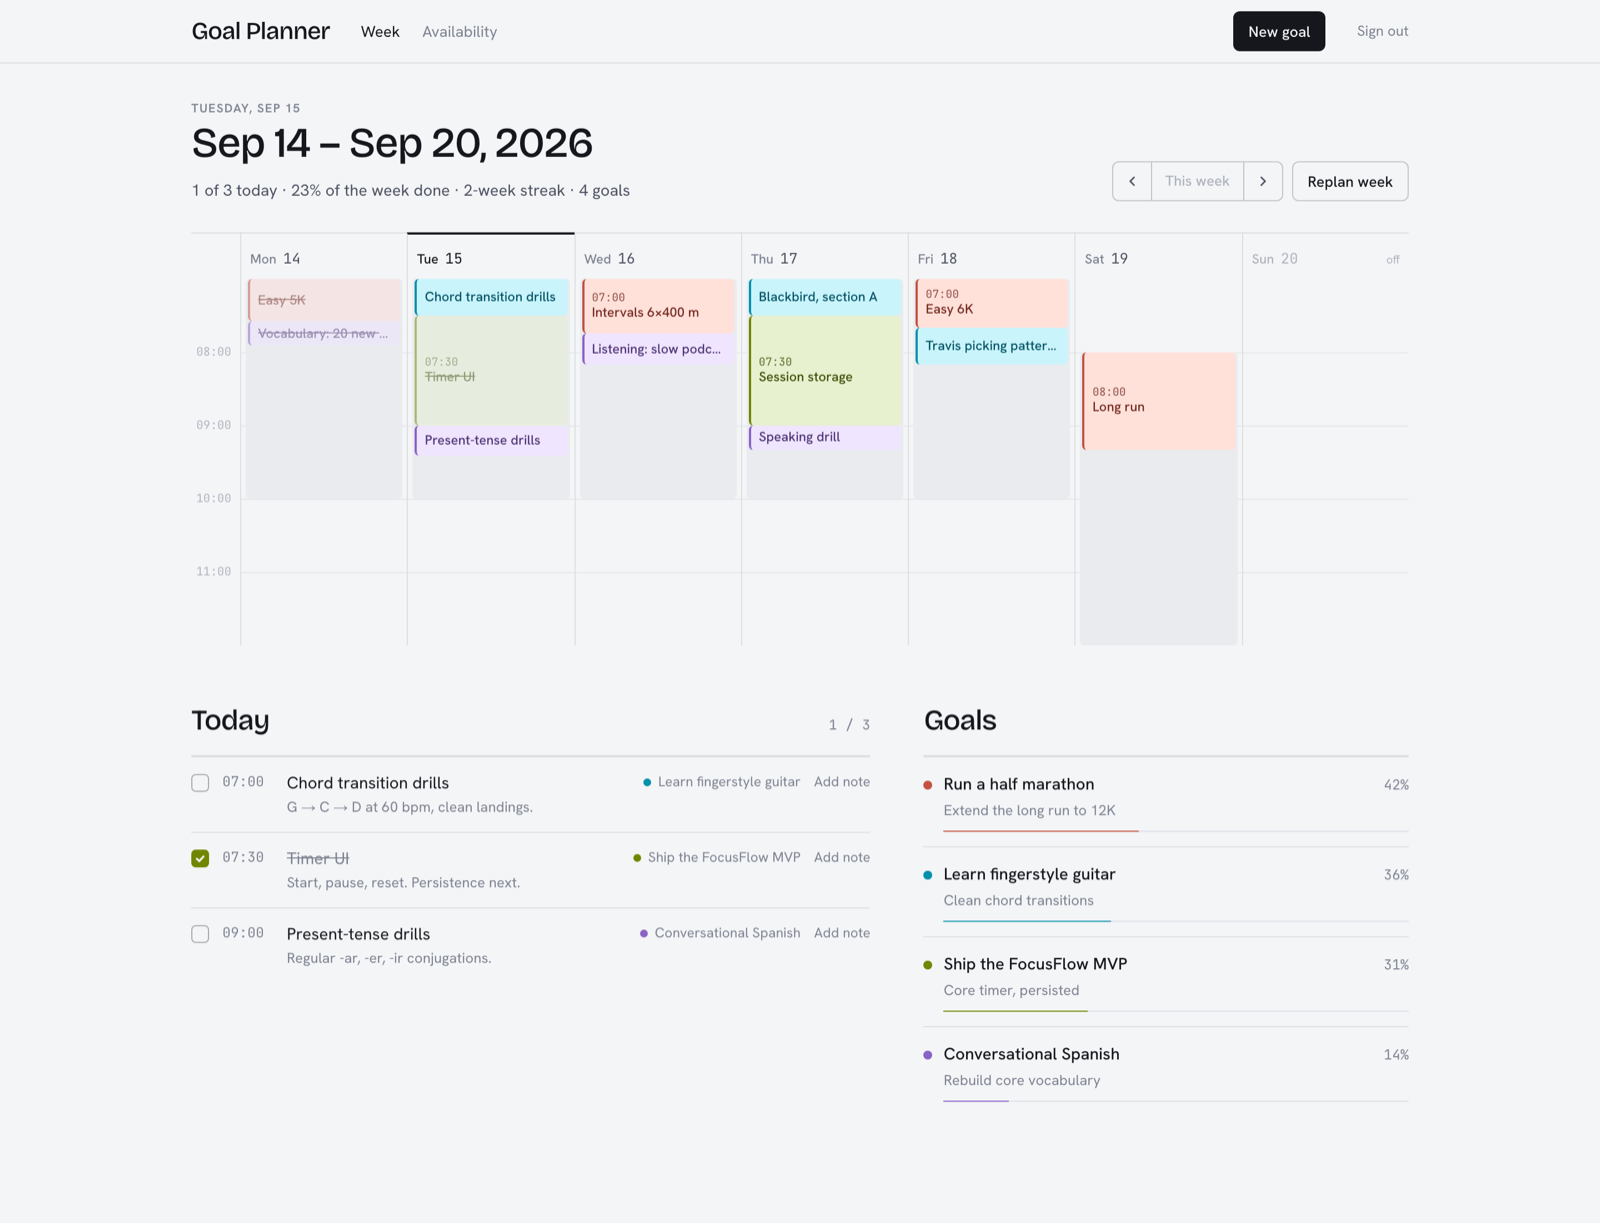
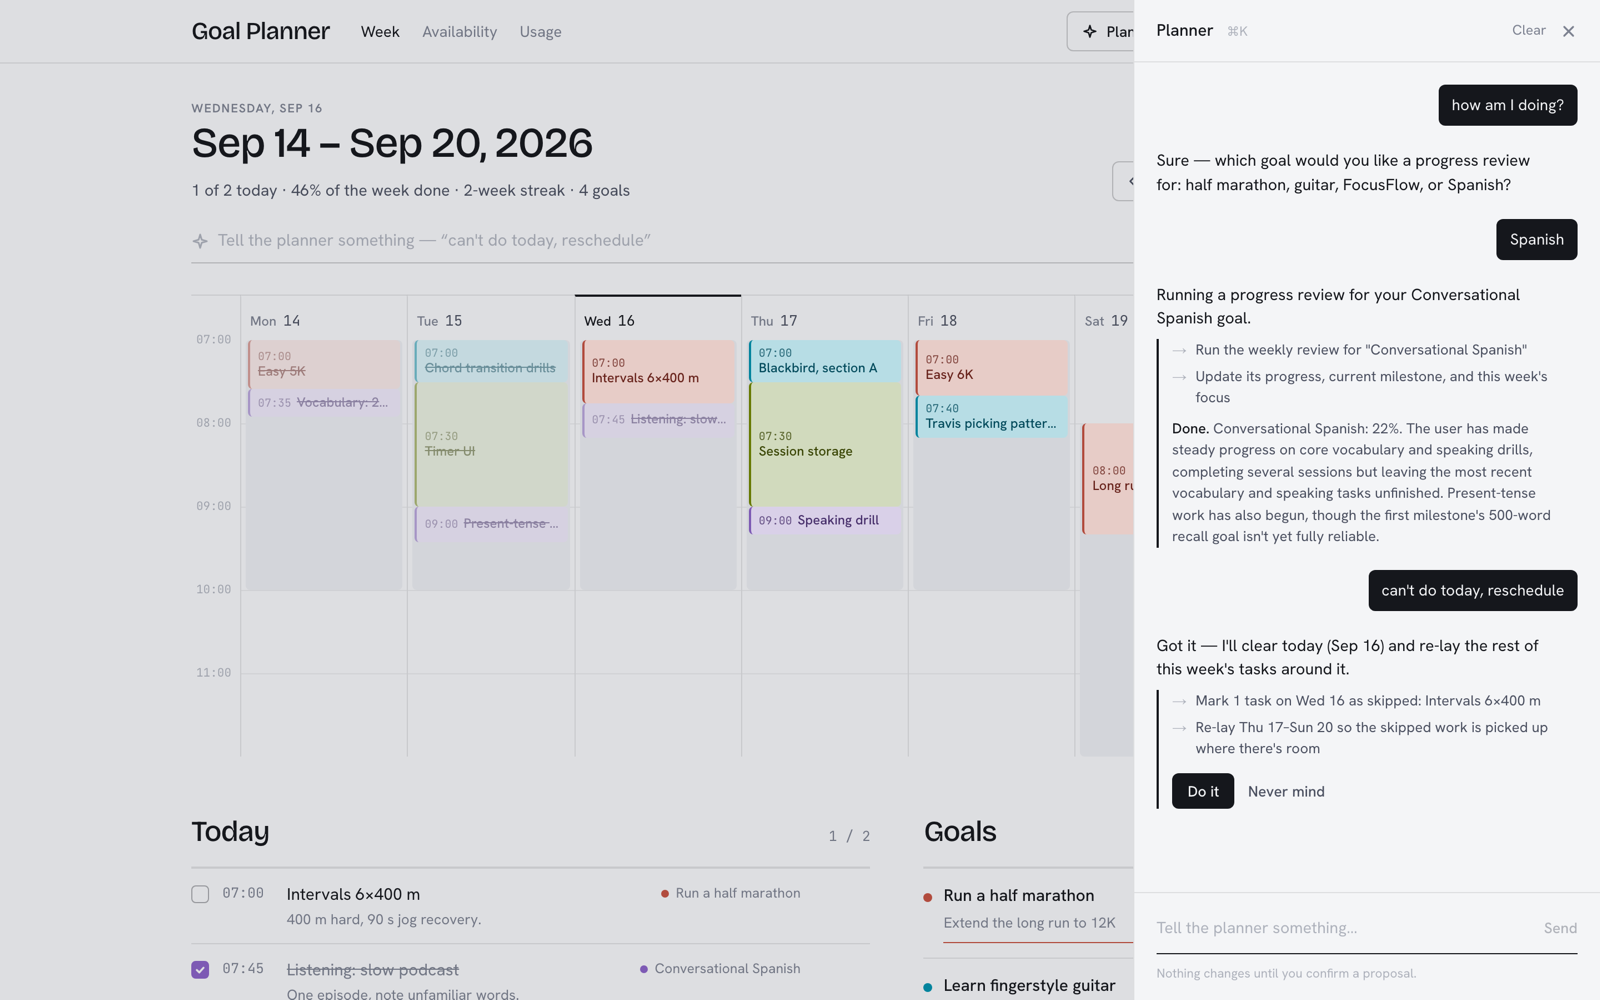
EEG project rewrite with EEG-trace graphic, Goal Planner dashboard update

diff --git a/web/content/projects.ts b/web/content/projects.ts
@@ -76,17 +76,20 @@ export const PROJECTS: Project[] = [
     name: "EEG Seizure Detection",
     designator: "M2",
     year: "2026",
-    role: "Solo · ML + deployment",
+    role: "ECE 539 team project · 2D CNN + evaluation",
     summary:
-      "Trained a seizure classifier on EEG recordings in PyTorch, then packaged it for deployment: a FastAPI inference endpoint, a Docker container, and documented setup.",
+      "Seizure detection from raw EEG with 1D and 2D CNNs. Every model hit 99.6% accuracy and caught zero seizures, so the project became a study of evaluating under severe imbalance: sensitivity over accuracy, leak-free recording-level splits, and a false-alarm budget.",
     body: [
-      "A seizure classifier trained on EEG recordings in PyTorch. The model is half the project; the other half is making it usable by someone who isn't me.",
-      "So it ships as a service: a FastAPI endpoint that takes a recording and returns a prediction, a Docker container so it runs the same on a laptop as on a server, and setup documentation that gets a new machine from clone to first inference without guesswork.",
+      "Seizure detection from raw 23-channel scalp EEG in the CHB-MIT database, for ECE 539 (Neural Networks) at UW–Madison. An end-to-end pipeline runs from EDF ingestion through annotation-based labels and feeds five models identical 4-second windows: three classical baselines, a 1D CNN on the raw signal, and a 2D CNN on STFT spectrograms.",
+      "Every model scored over 99.6% accuracy while catching zero seizures, because seizures make up under 5% of a recording. Sensitivity exposed the problem, and AUC showed the CNNs had actually learned to rank seizure windows above background. The failure was the decision threshold, not the model.",
+      "Revisiting the project later, I found two deeper problems. A labeling bug was under-counting seizure windows by about 10×. And the random window split let overlapping windows share signal across train and test, which inflated AUC to 0.98–0.999 and made every number from the original run untrustworthy.",
+      "I rebuilt the evaluation around recording-level splits, so no recording contributes to both sides, and thresholds chosen on validation data against a false-alarm budget rather than the default 0.5. That's the operating point a clinician would actually care about: how many seizures are caught at how many false alarms per hour.",
+      "My part: the 2D CNN and its spectrogram pipeline, the evaluation protocol, and the two bug fixes.",
     ],
-    tags: ["PyTorch", "FastAPI", "Docker", "Python"],
+    tags: ["Python", "PyTorch", "MNE", "scikit-learn", "STFT", "CHB-MIT"],
+    image: "/assets/eeg-seizure-traces.jpg",
     links: [
-      // { label: "Source", href: "https://github.com/hargens-holland/eeg-seizure" },
-      // { label: "API", href: "https://eeg-api.example.com" },
+      // { label: "Source", href: "https://github.com/hargens-holland/…" },
     ],
   },
   {
@@ -110,15 +113,20 @@ export const PROJECTS: Project[] = [
     name: "Goal Planner",
     designator: "M4",
     year: "2025",
-    role: "Solo · full-stack + AI agents",
+    role: "Solo · AI agents in production",
     summary:
-      "Type a goal in plain language and three Claude agents turn it into a milestone roadmap, then schedule the work into the hours you're actually free. Structured outputs, typed fallbacks, 71 tests, CI.",
+      "Three Claude agents turn a stated goal into a milestone roadmap and place the week's work into the hours you're actually free. Structured outputs, typed fallbacks, per-call telemetry, and an eval harness with an LLM judge that decides which model each agent runs on. 124 tests.",
     body: [
-      "An AI planning app: a plain-language goal becomes a milestone roadmap, and the roadmap becomes scheduled daily tasks. Three Claude agents each have one job. The Architect builds the roadmap. Progress reviews your week and adjusts where you are. The Scheduler lays tasks onto a real calendar, across every active goal, in the time you actually have.",
-      "The engineering focus was making model calls behave like any other dependency. Every agent call is constrained to a zod schema through structured outputs, so the app never parses free text. Each agent has a deterministic fallback with typed failure reasons, and every plan is logged as model- or fallback-generated, so the app keeps working when the model doesn't.",
-      "Retries are separated by cause: the SDK handles network retries, while schema violations and truncated responses are retried explicitly with their own logic. Contract tests verify that the schemas and the fallbacks satisfy the same contract, so a fallback can never quietly drift from what the model is supposed to return. 71 tests run in CI, and the architecture is fully documented in the repo.",
+      "Type a goal in plain language and three Claude agents each do one job. The Architect builds a milestone roadmap. Progress reviews your week and adjusts where you are. The Scheduler places tasks into your available hours across every active goal. Structured outputs constrain every model call to a Zod schema, every agent has a deterministic fallback with typed failure reasons, and every plan is recorded as model- or fallback-generated, so the app keeps working when the model doesn't.",
+      "I built the measurement layer before anything else. Every call writes one row: model, source, reason, attempts, tokens in and out, latency, estimated cost. It's fire-and-forget and swallows its own errors, so it can never affect the call it describes. A usage page aggregates thirty days: cost per day, p50 and p95 per agent, fallback rate, and why calls fell back. Without that, a fallback and a real model response produce identical-looking rows and you're blind.",
+      "An eval harness runs 24 goals across 13 domains, plus two injection cases and one deliberately vague goal, through the real Architect: nine deterministic checks scored separately, then an Opus judge grading four properties on a written 1–5 rubric with the candidate delimited as untrusted and the judge told not to reward length. Result: Opus 5 scores 4.67 against Sonnet 5's 4.27, a paired difference of +0.39 ± 0.17 over 22 goals, at 2.6× the cost and 1.7× the latency. That's why the Architect runs on Opus and the cheaper agents on Sonnet. The caveat is stated in the doc: the judge is Opus.",
+      "The tooling found six bugs none of the tests could see. The schema said a milestone's week was when it was targeted, so the model read it as due and the app read it as start, and every model-generated roadmap failed ordering. \"By end of year\" produced 24-week plans against a 16-week deadline because the model has no clock. A replan that returned generic titles turned out to be a 39-second fallback with zero tokens: Opus 5 and Sonnet 5 think by default, thinking counts against max_tokens, and the SDK surfaces truncation as a parse error rather than a stop reason, so the retry never fired.",
+      "The routes are hardened the way a public model endpoint has to be. Every request body has a Zod schema with a maximum on every string that reaches a prompt, which is a cost ceiling as much as input validation. Model routes are rate-limited per user with atomic fixed windows in Postgres, and signup per IP. Everything the user wrote goes inside delimiters, closing-tag attempts are stripped, and every system prompt says to treat it as data; both eval injection cases are resisted by both models. 124 tests run in CI.",
     ],
-    tags: ["Anthropic SDK", "TypeScript", "Next.js 14", "Prisma", "PostgreSQL", "Zod"],
+    tags: [
+      "Anthropic SDK", "TypeScript", "Next.js", "Prisma", "Zod",
+      "Evals", "LLM-as-judge", "Observability", "Rate limiting", "Prompt injection", "Prompt caching",
+    ],
     image: "/assets/goal-planner-dashboard.png",
     links: [
       { label: "Source", href: "https://github.com/hargens-holland/GoalApp" },

diff --git a/web/content/site.ts b/web/content/site.ts
@@ -141,12 +141,12 @@ export const SKILLS: SkillGroup[] = [
     items: [
       {
         name: "Python",
-        note: "My default for anything data or ML: the preprocessing pipeline at Veridis, model training in both PyTorch and TensorFlow, the OpenCV and NumPy camera pipeline on the capstone's ARM cores, and the FastAPI services I've written since.",
+        note: "My default for anything data or ML: the preprocessing pipeline at Veridis, the EEG pipeline from EDF files through MNE to spectrograms, model training in both PyTorch and TensorFlow, the OpenCV and NumPy camera pipeline on the capstone's ARM cores, and the FastAPI services I've written since.",
         projects: ["eeg-seizure-detection", "flex-pga"],
       },
       {
         name: "PyTorch",
-        note: "Trained regression and classification models on 23-channel time-series sensor data at Veridis, and the seizure classifier in my EEG project.",
+        note: "Trained regression and classification models on 23-channel time-series sensor data at Veridis, and the 1D and 2D CNNs in the EEG seizure project, where the model was fine and the evaluation was the problem.",
         projects: ["eeg-seizure-detection"],
       },
       {
@@ -159,7 +159,12 @@ export const SKILLS: SkillGroup[] = [
       },
       {
         name: "LLM integration & eval",
-        note: "At Radius Hire I built a Gemini-backed candidate screening workflow and the evaluation around it, checking output quality systematically instead of spot-checking by hand. The Goal Planner runs three Claude agents on the Anthropic SDK, with structured outputs constrained to zod schemas and typed fallbacks so the app never fails because the model did.",
+        note: "At Radius Hire I built a Gemini-backed candidate screening workflow and the evaluation around it, checking output quality systematically instead of spot-checking by hand. The Goal Planner runs three Claude agents on the Anthropic SDK, with structured outputs constrained to Zod schemas and typed fallbacks so the app never fails because the model did.",
+        projects: ["goal-planner"],
+      },
+      {
+        name: "Evals & observability",
+        note: "In the Goal Planner, every model call is logged with tokens, cost, and latency, and an eval harness with deterministic checks and an LLM judge decides which model each agent runs on. Built first, on purpose: it found six bugs the unit tests couldn't see.",
         projects: ["goal-planner"],
       },
       {
@@ -177,7 +182,11 @@ export const SKILLS: SkillGroup[] = [
         note: "The runtime for the DPU integration attempt on the capstone. I built the camera → shared-memory → VART inference path on the processing-system side before the team moved pose estimation off the fabric.",
         projects: ["flex-pga"],
       },
-      { name: "Scikit-learn · Pandas" },
+      {
+        name: "Scikit-learn · Pandas",
+        note: "The three classical baselines in the EEG project, and the metrics that showed accuracy was lying: sensitivity, AUC, and thresholds chosen on validation data against a false-alarm budget.",
+        projects: ["eeg-seizure-detection"],
+      },
     ],
   },
   {
@@ -194,18 +203,16 @@ export const SKILLS: SkillGroup[] = [
       },
       {
         name: "FastAPI",
-        note: "The inference endpoint for my EEG classifier, and the interview-scheduling service at Radius Hire, which runs on the WhatsApp Business API.",
-        projects: ["eeg-seizure-detection"],
+        note: "The interview-scheduling service at Radius Hire, which runs on the WhatsApp Business API, and the other FastAPI services there.",
       },
       {
         name: "PostgreSQL · Prisma",
-        note: "The Goal Planner runs on Postgres through Prisma: goals, milestones, scheduled tasks, and the log of which plans came from the model versus a fallback. Database Management coursework covered the theory; that project is where it got real.",
+        note: "The Goal Planner runs on Postgres through Prisma: goals, milestones, scheduled tasks, the per-call telemetry table, and the rate-limit windows, which are one atomic upsert per request. Database Management coursework covered the theory; that project is where it got real.",
         projects: ["goal-planner"],
       },
       {
         name: "Docker",
-        note: "Containerized the EEG inference service and the FastAPI services at Radius Hire, so they run the same locally as they do on AWS.",
-        projects: ["eeg-seizure-detection"],
+        note: "Containerized the FastAPI services at Radius Hire, so they run the same locally as they do on AWS.",
       },
       {
         name: "AWS",
